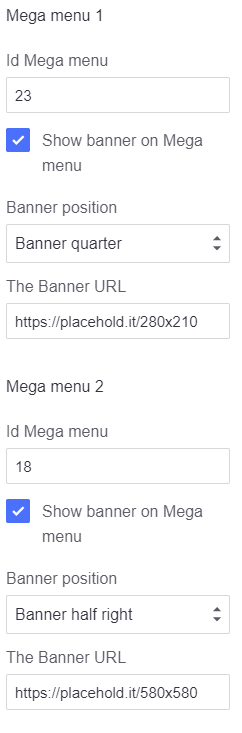
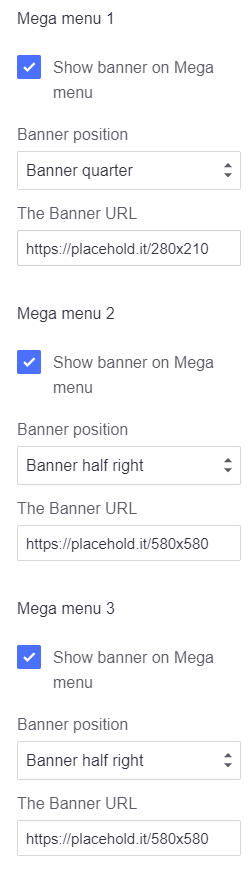
update user guild for header megamenu

diff --git a/docs/customization.md b/docs/customization.md
@@ -67,15 +67,11 @@ To customize Page navigation of the header section, look into the options showin
 ### Mega menu Customization
 
 ![Mega Menu](img/home1-megamenu.png)
-
+The theme support 6 Megamenu.
 To customize Mega menu of the header section, look into the options showing below in the Theme Editor:
 
 ![Mega Menu](img/home1-megamenu-2.png)
 
-
-For example if the current menu __Shop By__ has category ID = `23`.
-
-- __Id Mega menu__: 23.
 - __Show banner on Mega menu__: Check it if you want to display the banner in this Megamenu.
 - __Banner position__: There are 3 choices: __Banner half left__, __Banner half right__ and __Banner quarter__.
 - __The Banner URL__: Enter the path of image source.
